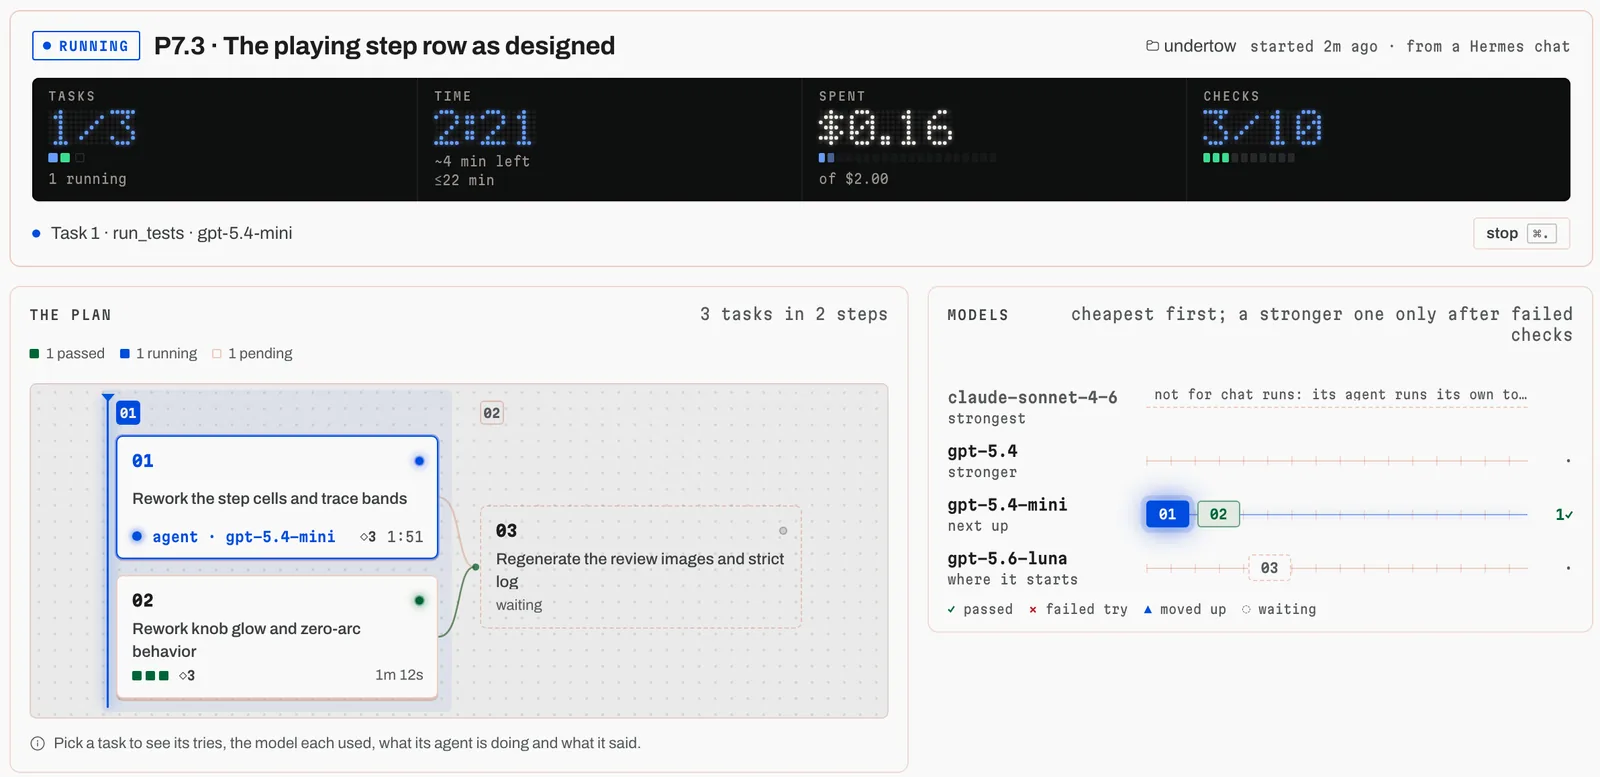
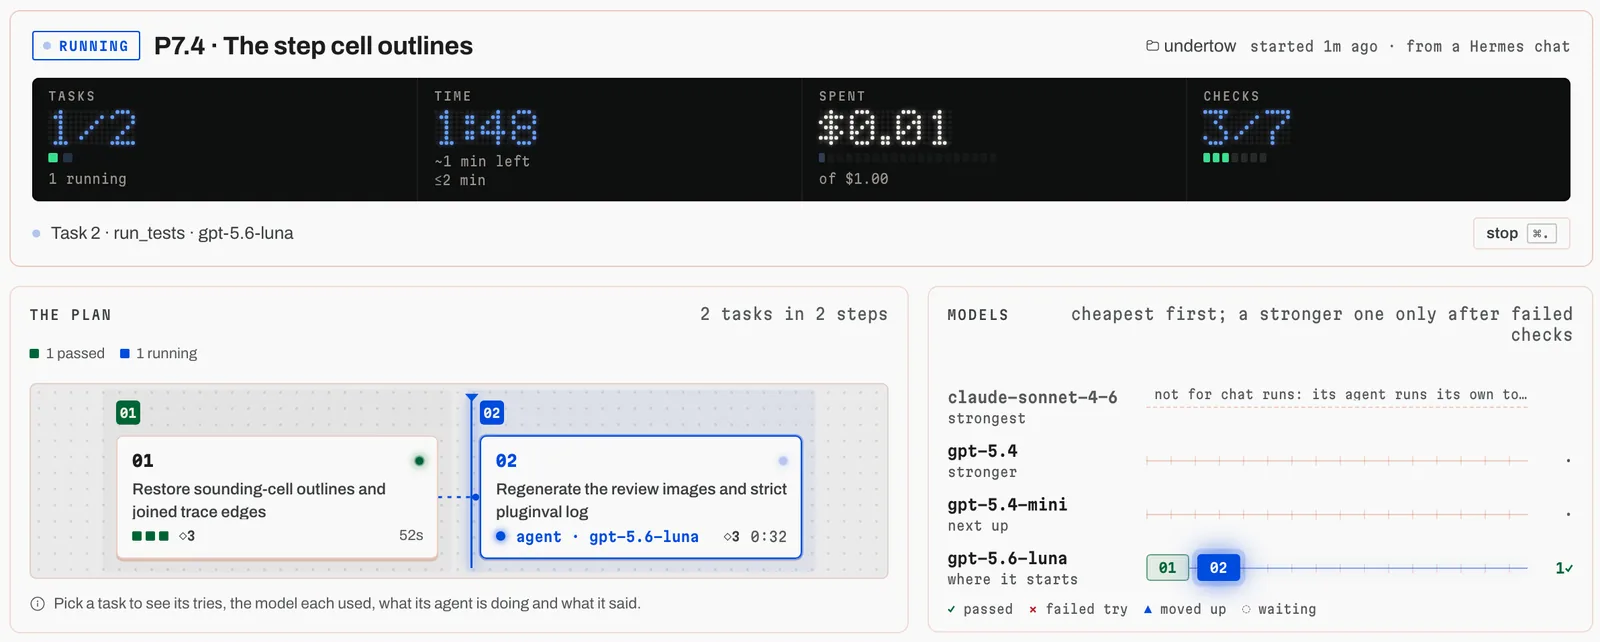
0.9 E: the docs' final images, on the final build (after phase 7.4, the jargon sweep, the Plans TIME fix and the pad fix)
- From hermes-pilot-v8's real runs: the hero, phase 7.4 mid-run on 530b83d (1 of 2 tasks, 3 of 7 checks); Plans and
  Learning on 5994731 (Undertow at 10 of 11 phases, its pads' TIME as roko counts it). The passed run and the merge
  dialog stay 7.3's, the same run in both images.
- Re-shot in the scratch world on b810aa0: the run at night, a task's panel (its route, checks and output in the
  sweep's words), the chat's cards, the side pane, New run in my-app, and the dashboard's run, phone and chat line.
- Alt texts say what each image now shows. All 13 under 80 KB; OCR-scanned clean, with no personal words and none of
  the old jargon.

diff --git a/README.md b/README.md
@@ -1,7 +1,7 @@
 # roko for Hermes
 
 <p align="center">
-  <img src="docs/images/hero.webp" alt="A run's page in the Hermes desktop app: RUNNING, its title, four readings on black glass (1 of 3 tasks, 2:21 with about 4 minutes left, $0.16 of $2.00, 3 of 10 checks), Task 1 running its tests on gpt-5.4-mini, the plan with one task passed, one running and one waiting, and the models it uses" width="820">
+  <img src="docs/images/hero.webp" alt="A run's page in the Hermes desktop app: RUNNING, its title, four readings on black glass (1 of 2 tasks, 1:48 with about a minute left, $0.01 of $1.00, 3 of 7 checks), Task 2 running its tests on gpt-5.6-luna, the plan with one task passed and one running, and the models it uses" width="820">
 </p>
 
 **Hand work from [Hermes Agent](https://github.com/NousResearch/hermes-agent) to [roko](https://github.com/wpank/roko),
@@ -16,7 +16,7 @@ as it happens: the desktop app, the web dashboard, the terminal and every chat p
 
 <table>
   <tr>
-    <td><img src="docs/images/desktop-run-dark.webp" alt="A run's page in the Hermes desktop app at night: 1 of 7 tasks passed and 3 running, 10:00 with about 36 minutes left, $0.12 of $1.00, 3 of 14 checks passed and 3 that did not; the plan with its steps, and the models it uses"></td>
+    <td><img src="docs/images/desktop-run-dark.webp" alt="A run's page in the Hermes desktop app at night: 1 of 7 tasks passed and 3 running, 10:05 with about 36 minutes left, $0.12 of $1.00, 3 of 14 checks passed and 3 that did not; the plan with its steps, and the models it uses"></td>
     <td><img src="docs/images/dashboard-run.webp" alt="A run's page in the Hermes web dashboard, in the dashboard's own look: 2 of 5 tasks passed, the time, $0.04 of $1.00, 5 of 5 checks, and the plan"></td>
   </tr>
   <tr>
@@ -68,7 +68,7 @@ undoes it. A merged run says where its work went.
 **Plans.** A project built in phases gets its build at the top of Plans: the phases on the glass, what to do next in
 one sentence with its key, and a pad per phase. Every plan has a line, and each plan has its own page.
 
-<p align="center"><img src="docs/images/desktop-plans.webp" alt="Plans: the Undertow build, with 9 of 10 phases, 32 of 32 tasks, 1 hour 51 minutes over 12 runs and $12.54 on the glass, and a pad per phase" width="820"></p>
+<p align="center"><img src="docs/images/desktop-plans.webp" alt="Plans: the Undertow build, with 10 of 11 phases, 34 of 34 tasks, 1 hour 54 minutes over 13 runs and $12.66 on the glass, and a pad per phase" width="820"></p>
 
 <p align="center"><sub>Phase 6 reads <b>not checked</b> because its last fix ran its checks inside its own try, which roko does not count, although the merged work passed every check.</sub></p>
 
@@ -77,7 +77,7 @@ task passes on its first try, and how often a task moves up to a stronger model.
 work and the lessons that paid off. How roko's loops work, how it keeps itself steady, every lesson and the checks'
 figures are folded under them.
 
-<p align="center"><img src="docs/images/desktop-learning.webp" alt="Learning: $0.16 per passed task, down 5% from the first runs; 100% passed on the first try; which models passed the work; three lessons that paid off" width="820"></p>
+<p align="center"><img src="docs/images/desktop-learning.webp" alt="Learning: $0.15 per passed task, down 11% from the first runs; 100% passed on the first try; which models passed the work; three lessons that paid off" width="820"></p>
 
 **Stay in the conversation.** In a chat, the run is a card with the same head as its page, and it moves while the run
 does. A side pane beside the chat follows the newest run, and the status bar shows roko's most urgent state.

diff --git a/docs/using-roko.md b/docs/using-roko.md
@@ -473,7 +473,7 @@ Every plan roko has, a line each, and each plan its own page: its document, its 
 estimate, and **run plan** with a cap. A project built in phases (its specs named `docs/specs/phase-<n>-<name>.md`)
 gets its build at the top: the phases on the glass, what to do next in one sentence with its key, and a pad per phase.
 
-![Plans: the Undertow build, 9 of its 10 phases passed on the glass, and a pad per phase](images/desktop-plans.webp)
+![Plans: the Undertow build, 10 of its 11 phases passed on the glass, and a pad per phase](images/desktop-plans.webp)
 
 Phase 6 reads **not checked** because its last fix ran its checks inside its own try, which roko does not count,
 although the merged work passed every check.
@@ -486,7 +486,7 @@ models passed the work and the lessons that paid off. Folded: roko's five loops 
 steady, every lesson it keeps (with a search), and the checks' figures. **runs from hermes** counts the runs Hermes
 started in this project; **workspace** counts every run roko recorded here.
 
-![Learning: $0.16 per passed task, down 5% from the first runs; 100% passed on the first try; the models that passed the work; three lessons that paid off](images/desktop-learning.webp)
+![Learning: $0.15 per passed task, down 11% from the first runs; 100% passed on the first try; the models that passed the work; three lessons that paid off](images/desktop-learning.webp)
 
 ### Beside the chat
 
